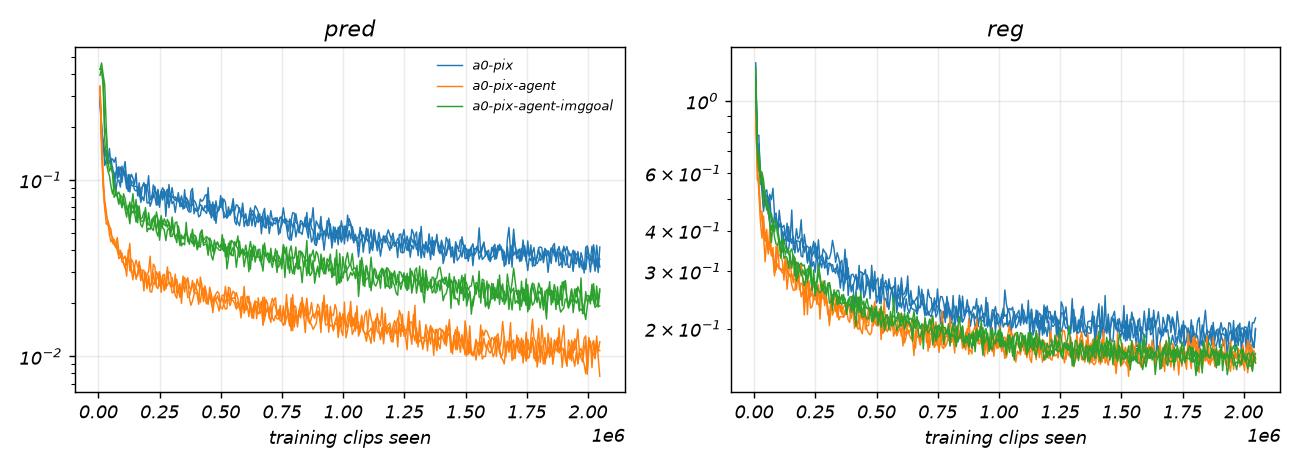
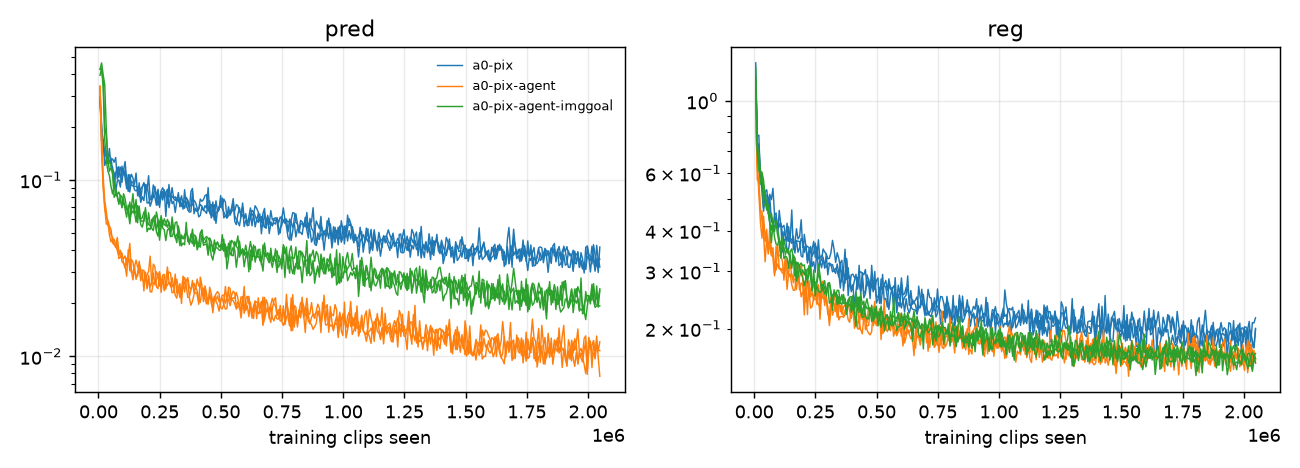
docs(model): B-pusht-0 fix1-pix-sep results

diff --git a/docs/model.md b/docs/model.md
@@ -4061,6 +4061,104 @@ Training curves, every seed:
   arms. Their throughputs are within-VM only.
 * Same protocol and in-distribution pairs as B-pusht-0.
 
+### B-pusht-0: fix1-pix-sep (the reconstruction on a masked copy)
+
+**Why.** In the second follow-up, fix1's training prediction loss equalled the variance of its
+training states on all 9 fix1 runs (pred / std² = 1.00 over the last logged steps, every ratio),
+from step 50 on. Its predictor never beat outputting the batch mean. The default one-pass
+reconstruction (`recon_input = "masked"`) feeds the JEPA masked frames for both context and target,
+each frame masked independently. The inference was that the masked states are dominated by their
+own random masks, which no context can predict. The proposed fix needed no code:
+`recon_input = "separate"`, B-fix-0's two-pass form. The next-state loss and SIGReg run on the clean
+batch, and the reconstruction on a masked copy, whose pass stops before the projector.
+
+**Arm.** fix1-pix-sep: fix1-pix with `recon_input = "separate"`, everything else identical (mask
+ratio 0.75, reconstruction 0.5, source z, the same data, budget and seeds), 3 seeds. It is planned
+on the 200 primary pairs and scored by the three rules. Check 1's prediction loss now comes with the
+clean states' per-dimension variance (`state_variance`), so pred / variance shows whether a
+predictor beats the mean; it is computed for fix1-pix-sep, a0-pix and fix1-pix.
+
+**Run.** One n2-standard-16 spot VM, 10:12 to 15:50 UTC, about 5.7 h, about $1.1 to $1.3
+(estimated); no preemption, so the training resume went unused. Training took 4.4 h at about 129
+sequences/s per run (the second pass; 145 were estimated).
+
+**Planning by rule** (200 pairs; mean +- sd over 3 seeds):
+
+| arm | full | block | agent |
+|---|---|---|---|
+| a0-pix | 0.140 +- 0.029 | 0.355 +- 0.046 | 0.153 +- 0.032 |
+| fix1-pix (one masked pass) | 0.040 +- 0.011 | 0.250 +- 0.016 | 0.040 +- 0.011 |
+| **fix1-pix-sep** | 0.142 +- 0.052 | 0.385 +- 0.035 | 0.153 +- 0.062 |
+
+| rule | contrast | value (seed SE, pair SE, combined, MDD) | reading |
+|---|---|---|---|
+| full | sep - a0-pix | +0.002 (0.028, 0.016, 0.032, 0.090) | no difference |
+| block | sep - a0-pix | +0.030 (0.026, 0.018, 0.032, 0.090) | no difference |
+| agent | sep - a0-pix | +0.000 (0.035, 0.017, 0.039, 0.109) | no difference |
+| full | sep - fix1-pix | +0.102 (0.043, 0.018, 0.046, 0.129) | no difference |
+| block | sep - fix1-pix | +0.135 (0.016, 0.024, 0.029, 0.082) | better |
+| agent | sep - fix1-pix | +0.113 (0.050, 0.018, 0.053, 0.148) | no difference |
+
+The full rule matches the evaluator on every plan. The rule figure (all follow-up arms, sep
+included) is updated:
+
+![Success by rule per arm](figures/pusht_ratio_rules.png)
+
+**pred against the clean states' variance** (2,048 validation clips; clean frames):
+
+| run | BN | clean pred | clean state variance | pred / variance |
+|---|---|---|---|---|
+| sep s0 | eval | 0.0351 | 0.976 | 0.036 |
+| sep s1 | eval | 0.0349 | 1.054 | 0.033 |
+| sep s2 | eval | 0.0336 | 0.894 | 0.038 |
+| sep s0 | batch | 0.0569 | 0.963 | 0.059 |
+| sep s1 | batch | 0.0516 | 0.966 | 0.053 |
+| sep s2 | batch | 0.0536 | 0.969 | 0.055 |
+| a0-pix s0-s2 | eval | 0.033 to 0.038 | 0.954 to 0.986 | 0.035 to 0.038 |
+| a0-pix s0-s2 | batch | 0.053 to 0.054 | 0.964 to 0.967 | 0.055 to 0.056 |
+| fix1-pix s0 | batch | 0.1534 | 0.147 | 1.046 |
+| fix1-pix s1 | batch | 0.2719 | 0.268 | 1.013 |
+| fix1-pix s2 | batch | 0.0477 | 0.044 | 1.081 |
+| fix1-pix s0-s2 | eval | 0.59 to 0.81 | 0.0000 | (meaningless) |
+
+fix1's clean-state variance with eval statistics is 0.0000. Its running BatchNorm statistics were
+collected on masked frames, and on clean frames they map every state to nearly the same point. The
+eval-mode ratio is therefore a division by about zero, which is why `ratio_report.txt` shows
+values of 1e4 to 1e5 there. Only fix1's batch-statistics ratio is read.
+
+Block pose (R²) from sep's state: x 0.85 to 0.88, y 0.87 to 0.90, angle 0.20 to 0.31; a0-pix's is
+x 0.87 to 0.88, y 0.86 to 0.90.
+
+Training curves, every seed (fix1-pix-sep with a0-pix and fix1 at each ratio):
+
+![fix1 at each mask ratio and fix1-pix-sep](figures/pusht_ratio_curves.png)
+
+**Reading.**
+
+* **The diagnosis is confirmed.** With the JEPA on clean frames, fix1-pix-sep's predictor beats the
+  mean as a0-pix's does: pred / variance 0.033 to 0.038 (eval) and 0.053 to 0.059 (batch), against
+  a0-pix's 0.035 to 0.038 and 0.055 to 0.056. One-pass fix1's is 1.01 to 1.08 (batch): its
+  clean-frame "prediction loss" of 0.05 to 0.27 was the small spread of its clean states, not learnt
+  dynamics.
+* Its training curves agree. sep's prediction loss lies on a0-pix's from the start, and its SIGReg
+  term ends like a0-pix's (about 0.19), below one-pass fix1's (about 0.23). Its reconstruction
+  converges to the one-pass level.
+* **Planning: fix1-pix-sep equals a0-pix** on every rule (+0.002 full, +0.030 block, +0.000
+  agent, none resolved). Against one-pass fix1 it is better on the block half (+0.135, resolved).
+  On the full rule (+0.102) it falls short of the MDD (0.129), because its seed spread is large
+  (seed SE 0.043; full per seed 0.10 to 0.21).
+* Its state holds the block as a0-pix's does (x 0.85 to 0.88).
+* **Bottom line: the reconstruction term, wired correctly, neither helps nor hurts Push-T
+  planning at this budget.** B-pusht-0's fix1 deficit (-0.100) came from the one-pass wiring,
+  not from reconstruction.
+
+**Caveats.**
+
+* One budget (2.0M clips) and one size; the in-distribution protocol of B-pusht-0.
+* The fix1-pix and a0-pix plans compared here come from the follow-up runs (re-planned, with final
+  states); a0-pix's full rate is 0.140 there against 0.143 in the first run.
+* fix1-pix-sep trained alone on its VM (3 runs on 16 vCPUs), so its throughput is within-VM only.
+
 ## GPU smoke test (prepared, not run)
 
 `sensorium.model.gpu_smoke` measures, on one GPU, in three phases so a slow run says why:
